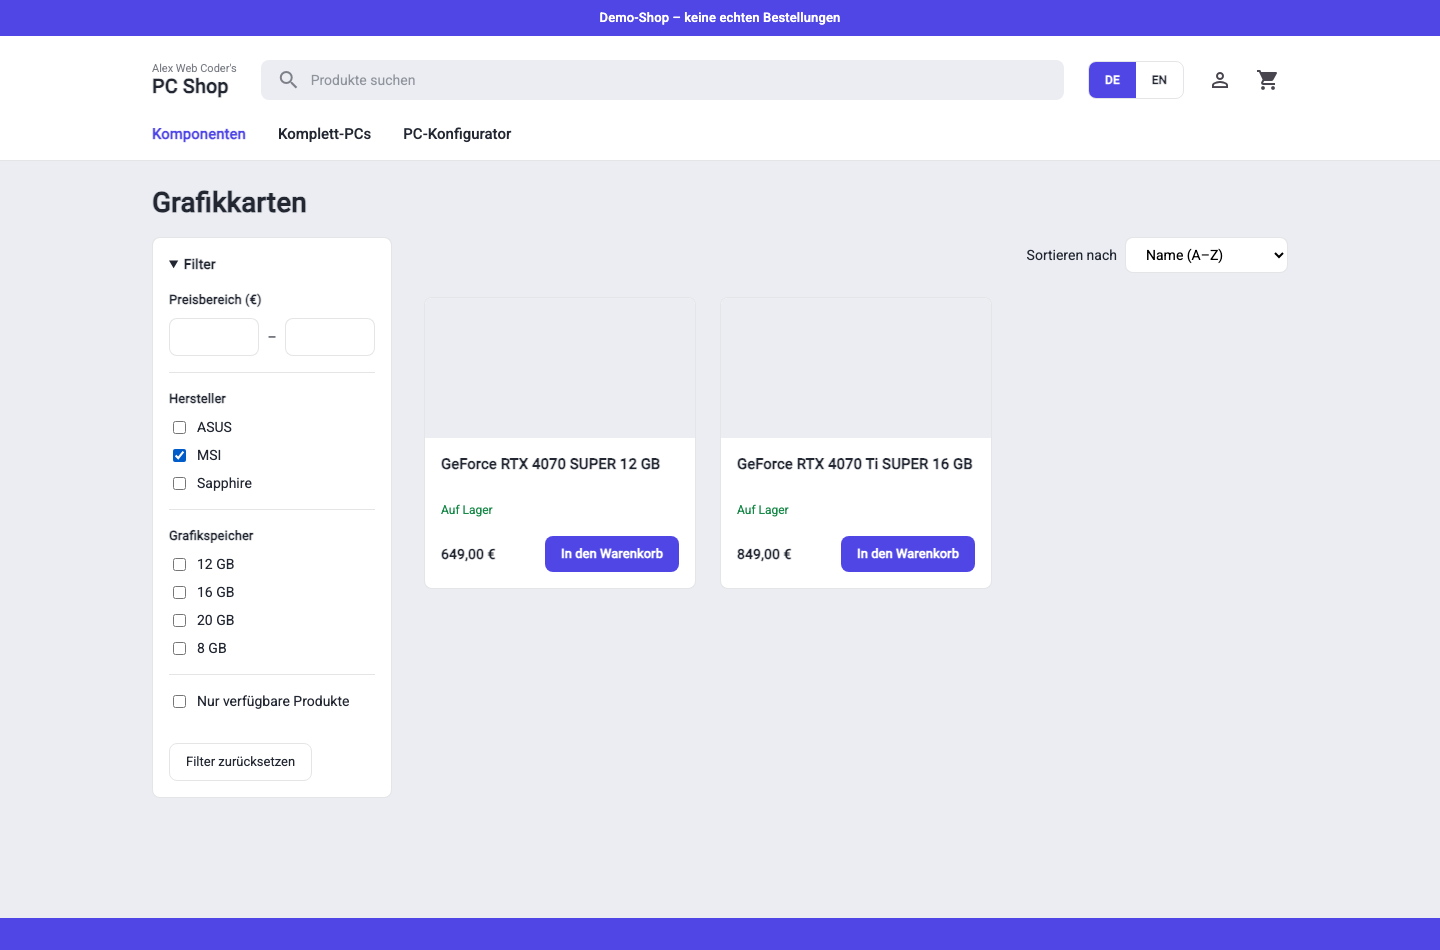
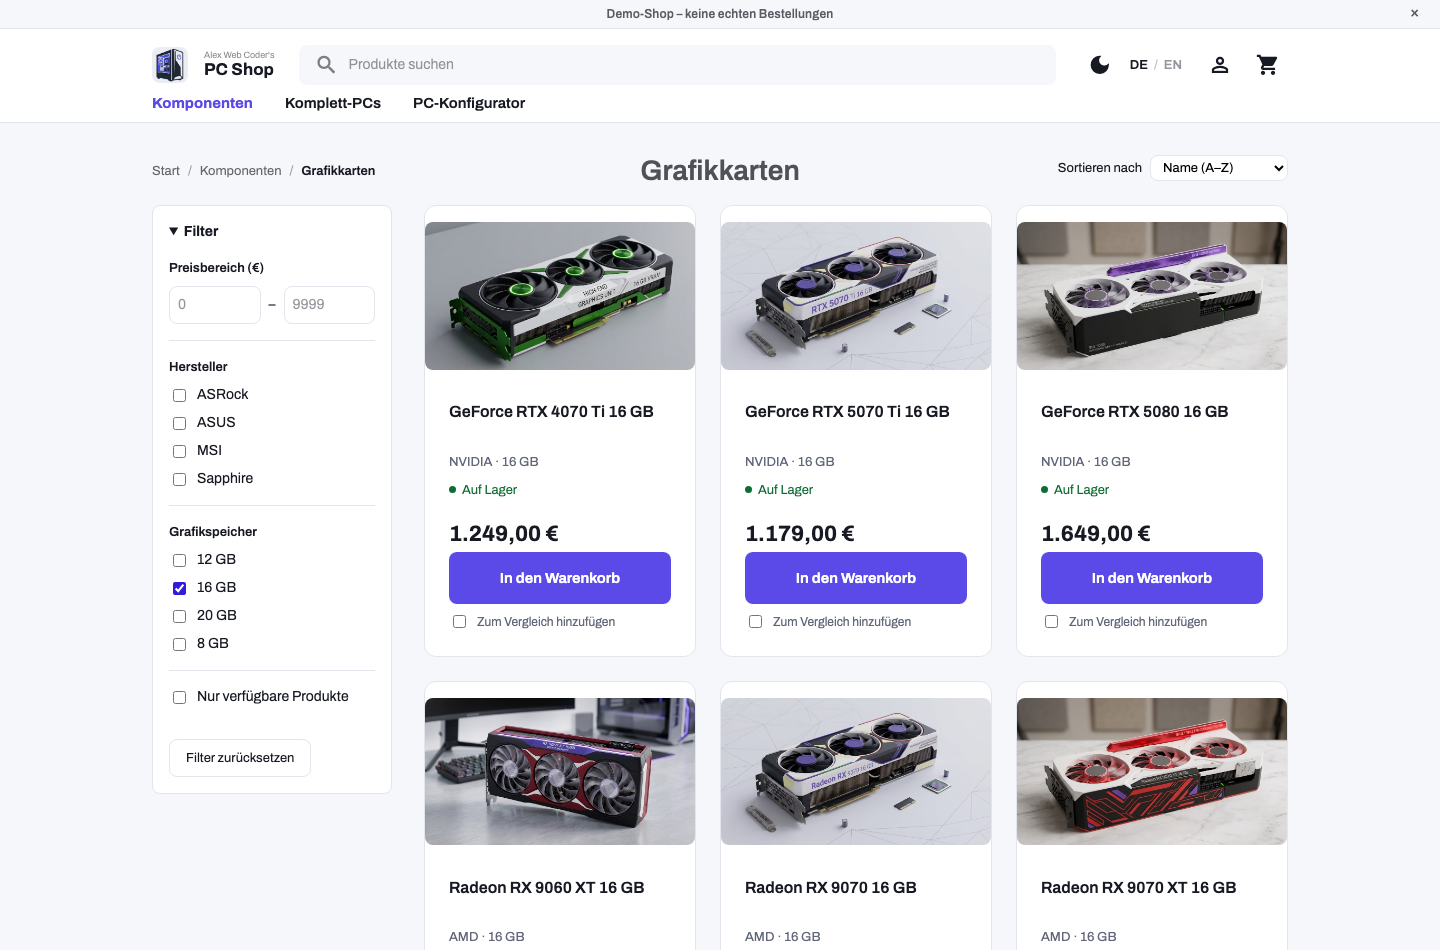
README: refresh screenshots to match current design, drop deploy-pending note
Screenshots were from before the header/hero/card redesign and showed
an outdated UI. Replaced all four with fresh captures of the current
site, picking states that actually demonstrate each feature (a VRAM
filter yielding multiple results instead of one, a fully configured
valid PC build instead of empty dropdowns).

Also removed the "not deployed yet" line — not wanted on a README
that's already been shared.

diff --git a/README.md b/README.md
@@ -4,9 +4,6 @@ A portfolio project: a fictional PC-hardware shop — components, prebuilt PCs, 
 compatibility-checking PC configurator — built end to end in Angular 22. No login, no real
 backend, no real orders or payments. Fully bilingual (German/English).
 
-**Live demo:** not deployed yet — static hosting (GitHub Pages or Cloudflare Pages) is a pending
-decision, tracked in [`docs/mvp.md`](docs/mvp.md). Everything below runs locally.
-
 ## Screenshots
 
 | Home | Catalog filters |
